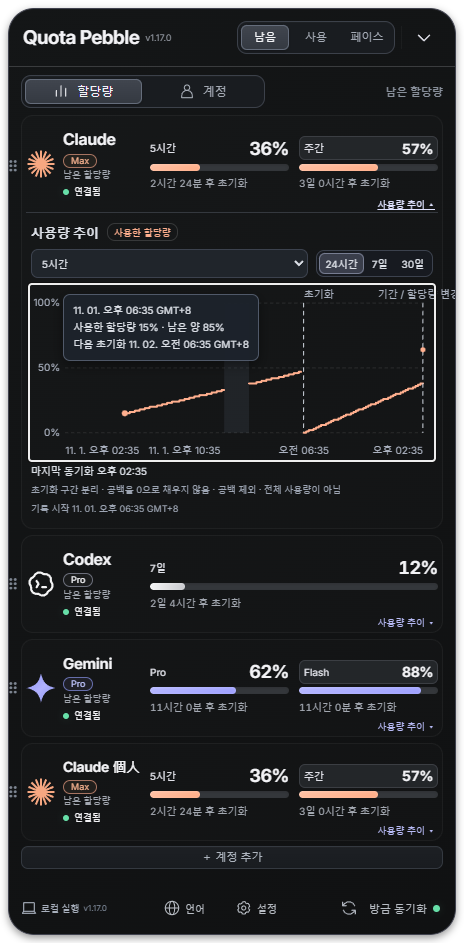
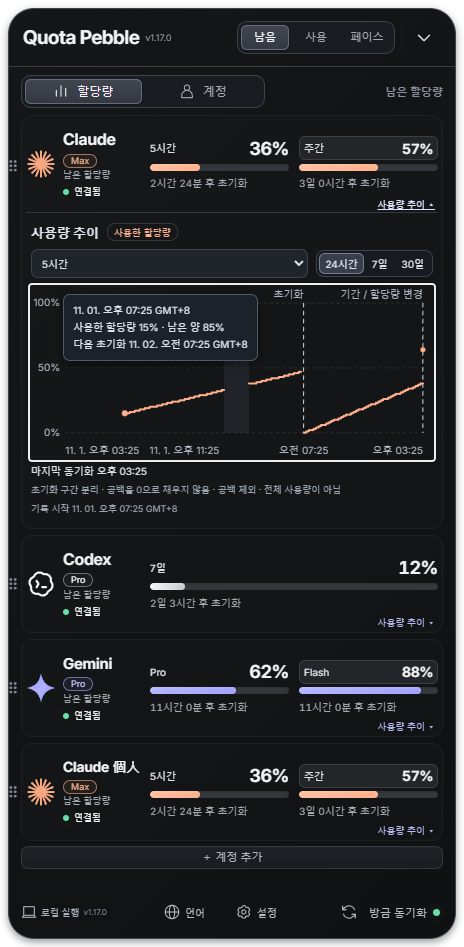
fix: keep localized trend annotations within chart bounds

diff --git a/src/ui/usage-trends.js b/src/ui/usage-trends.js
@@ -52,7 +52,7 @@
     for(const value of [0,50,100]){const py=T+(100-value)/100*(H-T-B);node('line',{x1:L,x2:W-R,y1:py,y2:py,class:'trend-grid'});node('text',{x:L-5,y:py+3,'text-anchor':'end',class:'trend-axis'},value+'%');}
     for(let i=0;i<4;i++){const time=data.from+(data.to-data.from)*i/3;node('text',{x:L+(W-L-R)*i/3,y:H-5,'text-anchor':i===0?'start':i===3?'end':'middle',class:'trend-axis'},selection.get(active).days===1?((i===0||new Date(time).toDateString()!==new Date(data.to).toDateString())?new Intl.DateTimeFormat(state.settings.locale,{month:'numeric',day:'numeric'}).format(time)+' ':'')+fmt(time):new Intl.DateTimeFormat(state.settings.locale,{month:'numeric',day:'numeric'}).format(time));}
     let prev=null,d='';function flush(){if(d.includes(' H'))node('path',{d,class:'trend-line'});d='';}
-    for(const p of points){if(!prev||prev.segment!==p.segment){flush();if(prev){if(p.reason==='reset'||p.reason==='change'){node('line',{x1:x(p),x2:x(p),y1:T,y2:H-B,class:'trend-boundary'});node('text',{x:Math.min(W-55,Math.max(L,x(p))),y:T-5,class:'trend-axis'},t(p.reason==='reset'?'reset':'change'));}else{node('rect',{x:x(prev),y:T,width:Math.max(0,x(p)-x(prev)),height:H-T-B,class:'trend-gap'});if(x(p)-x(prev)>44)node('text',{x:(x(p)+x(prev))/2,y:T+20,'text-anchor':'middle',class:'trend-axis'},t('gap'));}}d=`M${x(p)},${y(p)}`;}else d+=` H${x(p)} V${y(p)}`;prev=p;}flush();
+    for(const p of points){if(!prev||prev.segment!==p.segment){flush();if(prev){if(p.reason==='reset'||p.reason==='change'){node('line',{x1:x(p),x2:x(p),y1:T,y2:H-B,class:'trend-boundary'});node('text',{x:Math.min(W-R,Math.max(L,x(p))),y:T-5,'text-anchor':x(p)>W*.6?'end':'start',class:'trend-axis'},t(p.reason==='reset'?'reset':'change'));}else{node('rect',{x:x(prev),y:T,width:Math.max(0,x(p)-x(prev)),height:H-T-B,class:'trend-gap'});if(x(p)-x(prev)>44)node('text',{x:(x(p)+x(prev))/2,y:T+20,'text-anchor':'middle',class:'trend-axis'},t('gap'));}}d=`M${x(p)},${y(p)}`;}else d+=` H${x(p)} V${y(p)}`;prev=p;}flush();
     for(let i=0;i<points.length;i++)if((i===0||points[i-1].segment!==points[i].segment)&&(i===points.length-1||points[i+1].segment!==points[i].segment))node('circle',{cx:x(points[i]),cy:y(points[i]),r:2.5,class:'trend-point'});
     const marker=node('circle',{cx:x(points.at(-1)),cy:y(points.at(-1)),r:3,class:'trend-point'});let index=points.length-1;
     function show(i){index=Math.max(0,Math.min(points.length-1,i));const p=points[index];marker.setAttribute('cx',x(p));marker.setAttribute('cy',y(p));tip.replaceChildren(el('div','',fmt(p.time,true)),el('div','',t('used')+' '+p.used+'% · '+t('remaining')+' '+(Math.round((100-p.used)*100)/100)+'%'),el('div','',t('next')+' '+(p.reset?fmt(p.reset,true):t('unknown'))));tip.hidden=false;svg.setAttribute('aria-label',tip.textContent);svg.dataset.selectedTime=p.time;const ratio=x(p)/W;tip.style.left=ratio>0.55?'auto':'8%';tip.style.right=ratio>0.55?'4%':'auto';}
